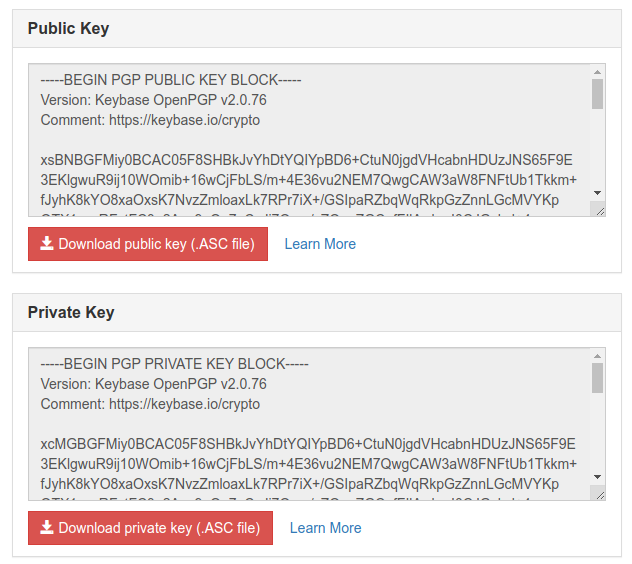
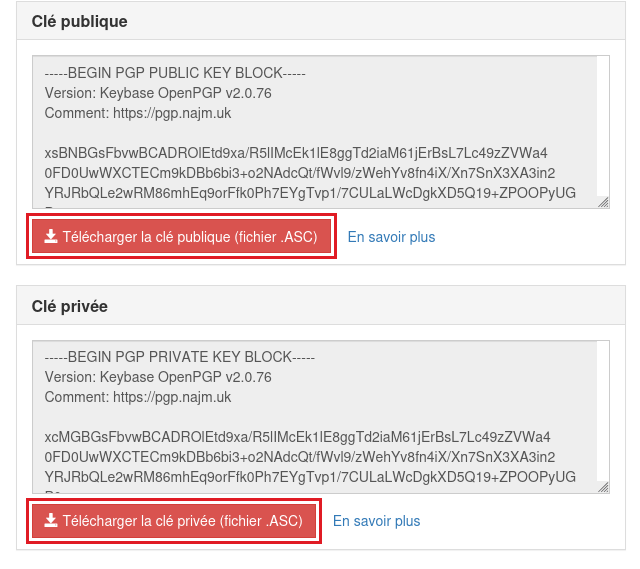
Changes in crypto-lab

Changed region(s): [[0.0, 0.5124, 0.9921, 0.9947], [0.0, 0.0, 0.9921, 0.4823]]

diff --git a/docs/informatique/2eme/cryptographie/crypto-lab.md b/docs/informatique/2eme/cryptographie/crypto-lab.md
@@ -46,6 +46,17 @@ asymétrique.
 Vous allez l'utiliser pour vous créer des clés et chiffrer/signer des messages
 que vous vous enverrez par email.
 
+L'outil PGP ci-dessous est organisé en onglets :
+
+- **Générer des clés** : création de votre couple de clés publique/privée ;
+- **Signer / Vérifier** : signature avec la clé privée de l'expéditeur,
+  vérification avec sa clé publique (le message reste lisible par tous) ;
+- **Chiffrer / Déchiffrer** : chiffrement avec la clé publique du destinataire,
+  déchiffrement avec sa clé privée (le message n'est pas signé) ;
+- **Chiffrer + signer / Déchiffrer + vérifier** : les deux à la fois
+  (confidentialité et authenticité). C'est cet onglet que vous utiliserez pour
+  vous envoyer des messages.
+
 % <https://pgp.najm.uk/>
 
 ### Génération d'un couple de clés
@@ -54,22 +65,23 @@ que vous vous enverrez par email.
 :style: height: 1400px;
 ```
 
-Remplissez les champs (mettez VOTRE nom et VOTRE adresse email, le reste comme indiqué sur la copie d'écran) --
-la « Passphrase » est un mot de passe utilisé pour protéger votre clé privée --
+Dans l'onglet « Générer des clés », remplissez les champs (mettez VOTRE nom et
+VOTRE adresse email, le reste comme indiqué sur la copie d'écran) -- la
+« Phrase de passe » est un mot de passe utilisé pour protéger votre clé privée --
 ne l'oubliez pas :
 
 ```{image} images/pgp_formulaire-generation-cles.png
-:alt: Formulaire « Generate PGP Keys » rempli avec le nom, l'adresse email et la passphrase
-:width: 70%
+:alt: Onglet « Générer des clés » rempli avec le nom, l'adresse email, RSA, 2048 bits, sans expiration et la phrase de passe
+:width: 80%
 :align: center
 ```
 
-Puis cliquez sur Generate Keys ...
+Puis cliquez sur « Générer les clés »...
 
 Après un moment, vous verrez apparaître vos clés à droite de la fenêtre :
 
 ```{image} images/pgp_cles-generees-telechargement.png
-:alt: Blocs de clé publique et de clé privée générés, avec les boutons de téléchargement
+:alt: Blocs de clé publique et de clé privée générés, avec les boutons « Télécharger la clé publique » et « Télécharger la clé privée »
 :width: 60%
 :align: center
 ```
@@ -100,31 +112,36 @@ Déposez le fichier contenant votre clé publique dans le répertoire dont vous 
 :style: height: 1400px;
 ```
 
-Allez dans l'onglet Encrypt (+Sign) :
+Allez dans l'onglet « Chiffrer + signer / Déchiffrer + vérifier », sous-onglet
+« Chiffrer et signer » :
 
-```{image} images/pgp_onglet-encrypt-sign.png
-:alt: Onglet « Encrypt (+Sign) » de l'outil PGP avec les champs à remplir
-:width: 70%
+```{image} images/pgp_onglet-chiffrer-signer.png
+:alt: Onglet « Chiffrer + signer / Déchiffrer + vérifier » de l'outil PGP, sous-onglet « Chiffrer et signer », avec les champs à remplir
+:width: 80%
 :align: center
 ```
 
 Vous allez chiffrer et signer un message pour votre voisin·e.
 
 Vous devez pour cela charger la clé publique du destinataire qui sera utilisée
-pour chiffrer le message (Receiver's public key) dans le répertoire dont vous trouverez le lien sur Moodle (le même que celui où vous avez déposé votre fichier de clé publique).
+pour chiffrer le message (« Clé publique du destinataire (pour chiffrer) ») dans
+le répertoire dont vous trouverez le lien sur Moodle (le même que celui où vous
+avez déposé votre fichier de clé publique).
 
-Vous devez également charger votre clé privée pour signer le message (Signer's
-private key) et le mot de passe que vous avez utilisé lors de sa création. Si
-vous ne mettez pas votre clé privée, alors le message sera uniquement chiffré
-mais pas signé.
+Vous devez également charger votre clé privée pour signer le message (« Votre
+clé privée (pour signer) ») et saisir la phrase de passe que vous avez utilisée
+lors de sa création. Pour chiffrer un message sans le signer, on utiliserait
+l'onglet « Chiffrer / Déchiffrer » : seule la clé publique du destinataire est
+alors nécessaire.
 
-Si tout se passe bien, quand vous cliquez sur « Encrypt the message », vous
-devriez voir un message indiquant que tout s'est bien passé et vous pourrez
-télécharger le message chiffré :
+Écrivez votre message dans « Votre message en clair ». Si tout se passe bien,
+quand vous cliquez sur « Chiffrer et signer le message », vous devriez voir un
+message indiquant que tout s'est bien passé et vous pourrez télécharger le
+message chiffré :
 
 ```{image} images/pgp_message-chiffre-signe.png
-:alt: Message « successfully encrypted and signed » avec le bouton pour télécharger le message chiffré
-:width: 70%
+:alt: Message « Message signé et chiffré avec succès » avec le bouton « Télécharger le message chiffré et signé »
+:width: 80%
 :align: center
 ```
 
@@ -137,17 +154,33 @@ message chiffré que vous venez de télécharger.
 :style: height: 1400px;
 ```
 
-Quand vous recevez un message, téléchargez-le puis allez dans l'onglet Decrypt
-(+Verify) :
+Quand vous recevez un message, téléchargez-le.
 
-```{image} images/pgp_onglet-decrypt-verify.png
-:alt: Onglet « Decrypt (+Verify) » de l'outil PGP avec les champs à remplir
-:width: 70%
+Avant d'aller plus loin, réfléchissez : de quelles clés avez-vous besoin pour
+déchiffrer le message ? Et pour vérifier la signature ?
+
+Allez ensuite dans l'onglet « Chiffrer + signer / Déchiffrer + vérifier »,
+sous-onglet « Déchiffrer et vérifier », et comparez votre réponse avec les
+champs à remplir :
+
+```{image} images/pgp_onglet-dechiffrer-verifier.png
+:alt: Sous-onglet « Déchiffrer et vérifier » de l'outil PGP avec les champs à remplir
+:width: 80%
 :align: center
 ```
 
-Je vous laisse réfléchir quelles sont les clés dont vous avez besoin pour
-déchiffrer le message et vérifier la signature.
+Chargez les clés et le message reçu, saisissez votre phrase de passe, puis
+cliquez sur « Déchiffrer et vérifier le message ». Si tout est correct, le
+message en clair s'affiche et l'outil confirme que la signature est valide :
+
+```{image} images/pgp_message-dechiffre-verifie.png
+:alt: Message « Message déchiffré et signature valide » avec l'empreinte de l'expéditeur, et le message en clair
+:width: 80%
+:align: center
+```
+
+L'empreinte affichée identifie la clé de l'expéditeur. Si le message a été signé
+avec une autre clé que celle que vous avez chargée, l'outil vous en avertit.
 
 ### Et maintenant pour le prof ...
 
